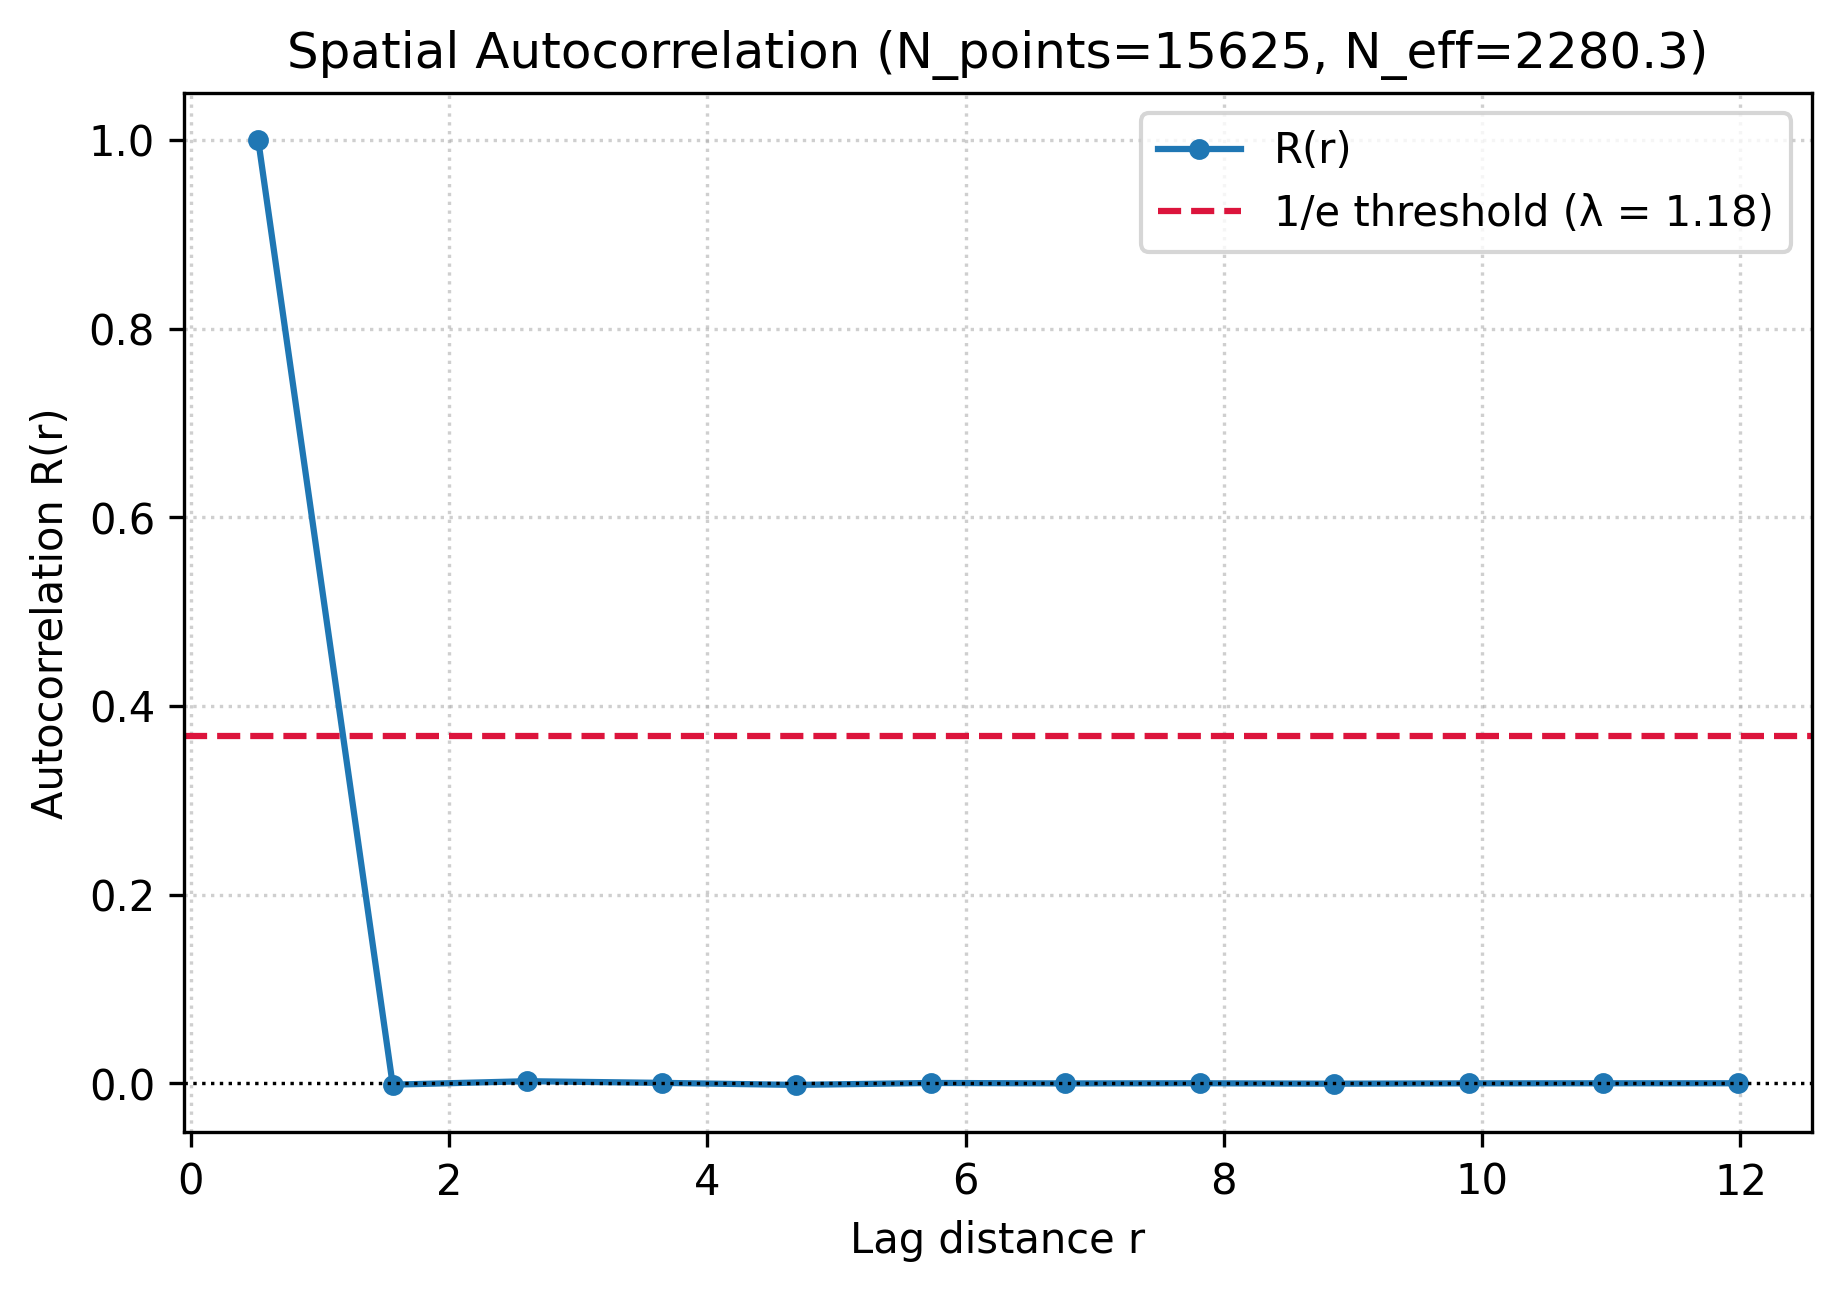
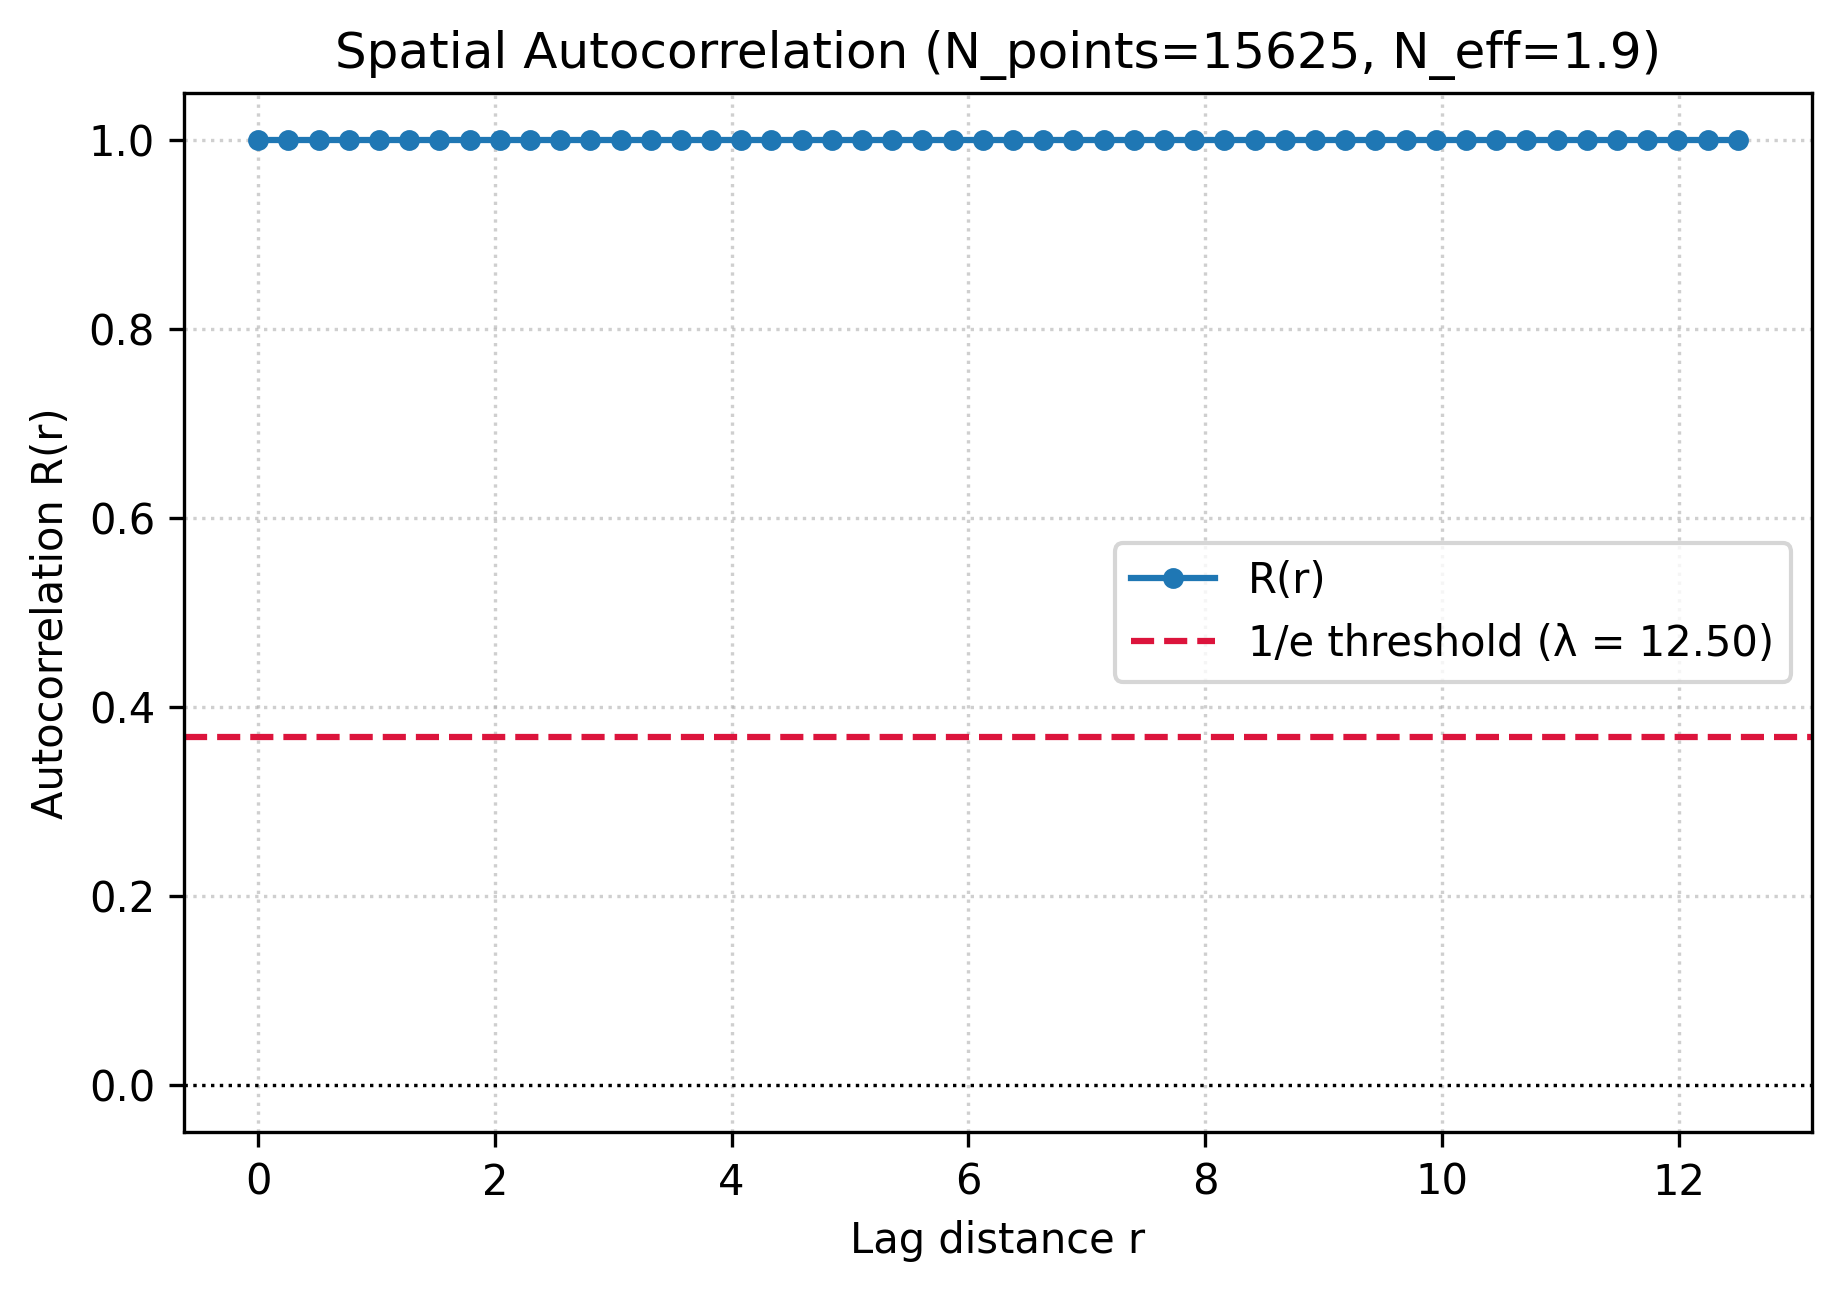
Support older MatViz3D HDF5 files (19 columns) and multi-set realization ensembles

diff --git a/examples/run_prototype.py b/examples/run_prototype.py
@@ -2,14 +2,15 @@
 Demonstration and validation script for mv3d-stress_ensemble_statistics.
 
 Executes end-to-end workflow according to AGENTS.md:
-1. Load ansys_angle000.00_r0.hdf5 via RVESimulation
+1. Load HDF5 simulation results (supports both older 19-col and newer 22-col MatViz3D outputs)
 2. Compute single-RVE statistics and invariants (SX, SEQV, J2, J3, Lode angle, triaxiality)
-3. Construct an ensemble of realizations
+3. Construct an ensemble of realizations (from multi-set HDF5 or baseline + synthetic counterparts)
 4. Perform variance decomposition (V_within, V_between, V_total)
 5. Compute ensemble mixture PDF & CDF
 6. Estimate joint density p(pressure, von_mises) and contour levels
 7. Evaluate copula reconstruction vs independent marginals
 8. Compute spatial autocorrelation and effective sample size N_effective
+9. Generate publication figures and overview dashboard
 """
 
 import sys
@@ -41,25 +42,65 @@ from mv3d_stress_stats import (
     plot_summary_dashboard,
 )
 
-HDF5_FILE = Path("ansys_angle000.00_r0.hdf5")
+
+def get_target_file() -> Path:
+    """Resolve target HDF5 file from sys.argv or available workspace files."""
+    if len(sys.argv) > 1:
+        p = Path(sys.argv[1])
+        if p.is_file():
+            return p
+        p_rel = PROJECT_ROOT / sys.argv[1]
+        if p_rel.is_file():
+            return p_rel
+
+    # Auto-detection priority
+    candidates = [
+        PROJECT_ROOT / "result-10-5.hdf5",
+        PROJECT_ROOT / "ansys_angle000.00_r0.hdf5",
+    ]
+    for c in candidates:
+        if c.is_file():
+            return c
+
+    all_h5 = sorted(list(PROJECT_ROOT.glob("*.hdf5")) + list(PROJECT_ROOT.glob("*.h5")))
+    if all_h5:
+        return all_h5[0]
+
+    return PROJECT_ROOT / "result-10-5.hdf5"
 
 
 def main():
+    target_file = get_target_file()
+
     print("=" * 70)
     print(" mv3d-stress_ensemble_statistics: End-to-End Analysis Workflow")
     print("=" * 70)
 
-    if not HDF5_FILE.is_file():
-        print(f"Error: {HDF5_FILE} not found.")
+    if not target_file.is_file():
+        print(f"Error: Target file not found: {target_file}")
+        print("Please place an HDF5 simulation file in the repository or pass it as an argument:")
+        print("  python .\\examples\\run_prototype.py <filename.hdf5>")
         return
 
     # ---------------------------------------------------------
     # 1. Single-RVE Analysis (Phase 1-3)
     # ---------------------------------------------------------
-    print(f"\n[1] Loading RVE: {HDF5_FILE.name} (Load Step 1)")
-    rve0 = RVESimulation(HDF5_FILE, set_index=0, load_step=1, realization_id="realization_0", as_grid=True)
-    print(f"    - Grid shape: {rve0.stress.shape[:-1]} ({rve0.num_points} spatial samples)")
-    print(f"    - Solver: {rve0.metadata.get('solver', 'N/A')}")
+    print(f"\n[1] Loading RVE: {target_file.name} (Load Step 1)")
+    rve0 = RVESimulation(target_file, set_index=0, load_step=1, as_grid=True)
+    num_sets = len(rve0.reader.set_ids)
+    
+    # Check table format (older vs newer MatViz3D)
+    raw_tab = rve0.reader.results(0, 1)
+    if raw_tab.shape[1] < 22:
+        format_info = f"Older MatViz3D version ({raw_tab.shape[1]} columns; SEQV computed via tensor formula)"
+    else:
+        format_info = f"Current MatViz3D version ({raw_tab.shape[1]} columns with precomputed SEQV)"
+
+    print(f"    - File:         {target_file.name} ({num_sets} set(s) available)")
+    print(f"    - Format:       {format_info}")
+    print(f"    - Grid shape:   {rve0.stress.shape[:-1]} ({rve0.num_points} spatial samples)")
+    print(f"    - Solver:       {rve0.metadata.get('solver', 'N/A')}")
+    print(f"    - Cube Size:    {rve0.metadata.get('cubeSize', 'N/A')}")
 
     stats_sx = rve0.describe("SX")
     stats_vm = rve0.describe("von_mises")
@@ -67,36 +108,44 @@ def main():
     stats_lode = rve0.describe("lode_angle")
     stats_triax = rve0.describe("triaxiality")
 
-    print("\n[2] Single-RVE Summary Statistics:")
+    print("\n[2] Single-RVE Summary Statistics (Set 0):")
     print(f"    - SX:                  Mean = {stats_sx.mean:.4e} Pa, Std = {stats_sx.std:.4e} Pa")
-    print(f"    - von Mises (calc):    Mean = {stats_vm.mean:.4e} Pa, Std = {stats_vm.std:.4e} Pa")
+    print(f"    - von Mises:           Mean = {stats_vm.mean:.4e} Pa, Std = {stats_vm.std:.4e} Pa")
     print(f"    - Hydrostatic stress:  Mean = {stats_sh.mean:.4e} Pa, Std = {stats_sh.std:.4e} Pa")
     print(f"    - Lode angle (rad):    Mean = {stats_lode.mean:.4f},    Std = {stats_lode.std:.4f}")
     print(f"    - Triaxiality:         Mean = {stats_triax.mean:.4f},    Std = {stats_triax.std:.4f}")
 
-    # Check ANSYS SEQV column comparison if present
     if rve0._data and rve0._data.seqv_ansys is not None:
         calc_vm = rve0.get_quantity("von_mises")
         ansys_vm = rve0._data.seqv_ansys
         diff = np.max(np.abs(calc_vm - ansys_vm))
-        print(f"    - Max absolute diff |von_mises_calc - SEQV_ansys|: {diff:.4e} Pa (verified)")
+        print(f"    - Max absolute diff |von_mises_calc - SEQV_ansys|: {diff:.4e} Pa (exact match)")
 
     # ---------------------------------------------------------
     # 2. Ensemble Statistics & Variance Decomposition (Phase 4)
     # ---------------------------------------------------------
-    print("\n[3] Constructing RVE Ensemble (r0 + synthetic counterparts r1, r2):")
-    rng = np.random.default_rng(42)
-    s_r1 = rve0.stress + rng.normal(0, 0.04 * stats_sx.mean, size=rve0.stress.shape)
-    s_r2 = rve0.stress + rng.normal(0, 0.08 * stats_sx.mean, size=rve0.stress.shape)
-
-    rve1 = RVESimulation(s_r1, realization_id="realization_1")
-    rve2 = RVESimulation(s_r2, realization_id="realization_2")
-
-    ensemble = RVEEnsemble(
-        sources=[rve0, rve1, rve2],
-        weights=[0.34, 0.33, 0.33],
-        rve_ids=["r0_baseline", "r1_perturbed", "r2_perturbed"],
-    )
+    if num_sets >= 3:
+        # File contains multiple real realizations (e.g. result-10-5.hdf5 has 100 sets)
+        n_ens = min(5, num_sets)
+        print(f"\n[3] Constructing RVE Ensemble from {n_ens} real realizations in {target_file.name}:")
+        sims = [
+            RVESimulation(target_file, set_index=i, load_step=1, as_grid=True)
+            for i in range(n_ens)
+        ]
+        ensemble = RVEEnsemble(sources=sims)
+    else:
+        # Single-realization file: construct baseline + synthetic counterparts
+        print(f"\n[3] Constructing RVE Ensemble (r0 + synthetic counterparts r1, r2):")
+        rng = np.random.default_rng(42)
+        s_r1 = rve0.stress + rng.normal(0, 0.04 * max(stats_sx.mean, 1e-6), size=rve0.stress.shape)
+        s_r2 = rve0.stress + rng.normal(0, 0.08 * max(stats_sx.mean, 1e-6), size=rve0.stress.shape)
+        rve1 = RVESimulation(s_r1, realization_id="r1_perturbed")
+        rve2 = RVESimulation(s_r2, realization_id="r2_perturbed")
+        ensemble = RVEEnsemble(
+            sources=[rve0, rve1, rve2],
+            weights=[0.34, 0.33, 0.33],
+            rve_ids=["r0_baseline", "r1_perturbed", "r2_perturbed"],
+        )
 
     ens_res = ensemble.analyze(quantity="von_mises", bins=100, kde=True)
     vd = ens_res.variance_decomposition
@@ -111,7 +160,7 @@ def main():
     # ---------------------------------------------------------
     print("\n[4] Estimating 2D Invariant Joint Distribution p(pressure, von_mises):")
     joint = compute_ensemble_joint_2d(
-        simulations=[rve0, rve1, rve2],
+        simulations=ensemble._get_realizations(load_step=1),
         weights=ensemble.weights,
         x_quantity="pressure",
         y_quantity="von_mises",
@@ -129,7 +178,8 @@ def main():
     # 4. Copula Reconstruction vs Independent Marginals (Section 7 & 8)
     # ---------------------------------------------------------
     print("\n[5] Copula vs. Independent Marginal Sampling (Section 7 & 8):")
-    copula_res = evaluate_copula_impact(rve1.stress, quantity="von_mises", n_synthetic=30000, seed=42)
+    sample_sim = ensemble._get_realizations(load_step=1)[0]
+    copula_res = evaluate_copula_impact(sample_sim.stress, quantity="von_mises", n_synthetic=30000, seed=42)
     print(f"    - Raw joint samples:        Mean = {copula_res.raw_mean:.4e}, Std = {copula_res.raw_std:.4e}")
     print(f"    - Gaussian copula:          Mean = {copula_res.copula_mean:.4e}, Std = {copula_res.copula_std:.4e}")
     print(f"    - Independent marginals:    Mean = {copula_res.indep_mean:.4e}, Std = {copula_res.indep_std:.4e}")
@@ -140,7 +190,19 @@ def main():
     # 5. Spatial Autocorrelation & N_effective (Section 14)
     # ---------------------------------------------------------
     print("\n[6] Spatial Autocorrelation & Effective Sample Size (Section 14):")
-    vm_grid = rve1.get_quantity("von_mises").reshape(25, 25, 25)
+    vm_vals = sample_sim.get_quantity("von_mises")
+    if vm_vals.ndim == 3:
+        vm_grid = vm_vals
+    elif hasattr(sample_sim, "_data") and sample_sim._data and sample_sim._data.grid_shape:
+        vm_grid = vm_vals.reshape(sample_sim._data.grid_shape)
+    else:
+        n_pts = vm_vals.size
+        s = int(round(n_pts ** (1.0 / 3.0)))
+        if s ** 3 == n_pts:
+            vm_grid = vm_vals.reshape(s, s, s)
+        else:
+            vm_grid = vm_vals
+
     corr_res = estimate_effective_sample_size(vm_grid, dx=1.0)
     print(f"    - Spatial integration points (N_points): {corr_res.n_points}")
     print(f"    - Autocorrelation length (lambda):        {corr_res.correlation_length:.2f} voxels")
@@ -148,6 +210,8 @@ def main():
     print(f"    - Naive Standard Error (s / sqrt(N)):     {corr_res.standard_error_naive:.4e}")
     print(f"    - Effective Standard Error (s / sqrt(N_eff)): {corr_res.standard_error_effective:.4e}")
     print(f"    - Naive 95% CI on mean:     [{corr_res.ci_naive_95[0]:.4e}, {corr_res.ci_naive_95[1]:.4e}]")
+    print(f"    - Effective 95% CI on mean: [{corr_res.ci_effective_95[0]:.4e}, {corr_res.ci_effective_95[1]:.4e}]")
+
     # ---------------------------------------------------------
     # 6. Generating and Saving Visualization Plots
     # ---------------------------------------------------------

diff --git a/tests/test_prototype_ansys.py b/tests/test_prototype_ansys.py
@@ -91,3 +91,40 @@ def test_ansys_ensemble_with_synthetic_counterparts():
     # Check ensemble PDF is exact 1/M weighted sum of realization PDFs
     manual_sum_pdf = (res.histograms[0] + res.histograms[1] + res.histograms[2]) / 3.0
     np.testing.assert_allclose(res.ensemble_pdf, manual_sum_pdf, rtol=1e-12)
+
+
+OLDER_HDF5_PATH = Path("result-10-5.hdf5")
+
+
+@pytest.mark.skipif(not OLDER_HDF5_PATH.is_file(), reason="result-10-5.hdf5 not found")
+def test_older_matviz3d_multi_set_file():
+    """Validate backward compatibility on older MatViz3D files (19 columns, multiple sets)."""
+    reader = RVEReader(OLDER_HDF5_PATH)
+    assert len(reader.set_ids) == 100
+    
+    # Check 19-column results table
+    raw = reader.results(0, 1)
+    assert raw.shape == (1331, 19)
+    
+    # Read stress
+    data = reader.read_stress(set_index=0, load_step=1, as_grid=True)
+    assert data.stress.shape == (11, 11, 11, 6)
+    assert data.seqv_ansys is None  # Older format lacks SEQV column
+    
+    # von Mises computed via tensor invariants
+    vm = von_mises(data.stress)
+    assert vm.shape == (11, 11, 11)
+    assert np.all(vm >= 0.0)
+    
+    # Multi-realization ensemble via RVEEnsemble.from_file
+    ensemble = RVEEnsemble.from_file(OLDER_HDF5_PATH, set_indices=[0, 1, 2, 3, 4], load_step=1)
+    assert len(ensemble.sources) == 5
+    assert ensemble.rve_ids[0] == "result-10-5_s1"
+    assert ensemble.rve_ids[4] == "result-10-5_s5"
+    
+    res = ensemble.analyze(quantity="von_mises", bins=80)
+    vd = res.variance_decomposition
+    assert vd.v_total == pytest.approx(vd.v_within + vd.v_between)
+    assert vd.eta_within + vd.eta_between == pytest.approx(1.0)
+    assert vd.eta_within > 0.8  # Most variability is within-RVE spatial heterogeneity
+

diff --git a/mv3d_stress_stats/reader.py b/mv3d_stress_stats/reader.py
@@ -80,9 +80,22 @@ class RVEReader:
                 if field in grp:
                     val = grp[field][()]
                     if isinstance(val, (bytes, np.bytes_)):
-                        val = val.decode("utf-8", errors="replace")
+                        val = val.decode("utf-8", errors="replace").rstrip("\x00")
+                    elif isinstance(val, np.ndarray) and val.dtype in (np.int8, np.uint8):
+                        val = bytes(val).decode("utf-8", errors="replace").rstrip("\x00")
                     meta[field] = val
         return meta
+
+    def results(self, set_index: int = 0, load_step: int = 1) -> np.ndarray:
+        """Raw per-voxel table from results dataset, shape (N, n_cols)."""
+        if not self.set_ids:
+            raise ValueError(f"No set groups found in {self.file_path}")
+        set_id = self.set_ids[set_index]
+        with h5py.File(self.file_path, "r") as f:
+            ls_key = f"{set_id}/ls_{load_step}"
+            if ls_key not in f:
+                raise KeyError(f"Load step '{ls_key}' not found in {self.file_path}")
+            return f[ls_key]["results"][:]
 
     def read_stress(
         self,

diff --git a/mv3d_stress_stats/ensemble.py b/mv3d_stress_stats/ensemble.py
@@ -139,6 +139,31 @@ class RVEEnsemble:
                 else:
                     self.rve_ids.append(f"rve_{i}")
 
+    @classmethod
+    def from_file(
+        cls,
+        file_path: Union[str, Path],
+        set_indices: Optional[Sequence[int]] = None,
+        load_step: int = 1,
+        as_grid: bool = False,
+        weights: Optional[Sequence[float]] = None,
+    ) -> RVEEnsemble:
+        """Create an RVEEnsemble from sets within a single HDF5 file (e.g. multi-realization runs)."""
+        from mv3d_stress_stats.reader import RVEReader
+        reader = RVEReader(file_path)
+        if set_indices is None:
+            set_indices = list(range(len(reader.set_ids)))
+        sims = [
+            RVESimulation(
+                source=file_path,
+                set_index=idx,
+                load_step=load_step,
+                as_grid=as_grid,
+            )
+            for idx in set_indices
+        ]
+        return cls(sources=sims, weights=weights)
+
     def _get_realizations(
         self,
         set_index: int = 0,

diff --git a/mv3d_stress_stats/single_rve.py b/mv3d_stress_stats/single_rve.py
@@ -244,8 +244,15 @@ class RVESimulation:
         
         if isinstance(source, (str, Path)):
             self.file_path = str(source)
-            self.id = realization_id or Path(source).stem
             self.reader = RVEReader(source)
+            if realization_id:
+                self.id = realization_id
+            elif len(self.reader.set_ids) > 1:
+                cur_set = self.reader.set_ids[set_index] if set_index < len(self.reader.set_ids) else str(set_index)
+                self.id = f"{Path(source).stem}_s{cur_set}"
+            else:
+                self.id = Path(source).stem
+
             self._data = self.reader.read_stress(
                 set_index=set_index,
                 load_step=load_step,

diff --git a/README.md b/README.md
@@ -41,10 +41,11 @@ mv3d_stress_stats/
 
 ### Basic Analysis Example
 
+#### A. Multiple RVE Files (1 realization per file)
 ```python
 from mv3d_stress_stats import RVEEnsemble, RVESimulation
 
-# 1. Define ensemble of RVE realizations
+# 1. Define ensemble from multiple HDF5 files
 ensemble = RVEEnsemble(
     sources=["ansys_angle000.00_r0.hdf5", "ansys_angle000.00_r1.hdf5"],
     weights=[0.5, 0.5],
@@ -67,6 +68,29 @@ print(vd.summary())
 df_stats = result.to_dataframe()
 print(df_stats)
 ```
+
+#### B. Single File with Multiple Realization Sets (Older or Batch MatViz3D Runs)
+```python
+# Automatically loads sets (e.g. set 1..5) as distinct realizations
+ensemble = RVEEnsemble.from_file(
+    "result-10-5.hdf5",
+    set_indices=[0, 1, 2, 3, 4],  # or omit to load all available sets
+    load_step=1,
+)
+
+result = ensemble.analyze(quantity="von_mises", bins=100)
+print(result.variance_decomposition.summary())
+```
+
+---
+
+### Format & Version Compatibility
+
+The framework automatically accommodates different MatViz3D file versions:
+* **Current MatViz3D (22 columns)**: Contains precomputed ANSYS equivalent stress `SEQV` at column index 20. Stresses match tensor invariants exactly.
+* **Older MatViz3D (19 columns, e.g. `result-10-5.hdf5`)**: Tables contain `ID, X, Y, Z, UX, UY, UZ, SX, SY, SZ, SXY, SYZ, SXZ, EpsX..XZ` without `SEQV`. The framework seamlessly calculates $\sigma_{\text{VM}} = \sqrt{3J_2}$ directly from the 6 stress components.
+* **Arbitrary Grid Sizes**: Dynamically handles any grid resolution (e.g. $11 \times 11 \times 11$, $25 \times 25 \times 25$, or non-cubic grids) without hardcoded dimensions.
+
 
 ---
 
@@ -193,7 +217,12 @@ Integration points inside an RVE are spatially correlated; therefore $N_{\text{p
 
 ### Execute Prototype Analysis & Generate Figures
 ```bash
+# Auto-detects available HDF5 file (result-10-5.hdf5 or ansys_angle000.00_r0.hdf5):
 python examples/run_prototype.py
+
+# Or specify any target HDF5 file explicitly:
+python examples/run_prototype.py result-10-5.hdf5
+python examples/run_prototype.py ansys_angle000.00_r0.hdf5
 ```
 
 ### Run Full Test Suite
@@ -201,10 +230,12 @@ python examples/run_prototype.py
 pytest -v
 ```
 
-All 22 unit tests validate:
+All 23 unit tests validate:
 - 6-component $\leftrightarrow$ $3 \times 3$ symmetric tensor conversions and coordinate frame rotations ($\mathbf{R}^T \boldsymbol{\sigma} \mathbf{R}$)
 - Stress invariants ($I_1, J_2, J_3$), principal stresses ($\sigma_1 \ge \sigma_2 \ge \sigma_3$), and Lode angle conventions
 - Analytical validation of the Law of Total Variance
 - Direct ANSYS validation against `ansys_angle000.00_r0.hdf5` (`von_mises` matches ANSYS `SEQV` with 0 numerical error)
+- Backward compatibility with older MatViz3D 19-column files (`result-10-5.hdf5`) and multi-set realization ensembles
 - Copula dependence modeling and spatial autocorrelation
+
 
